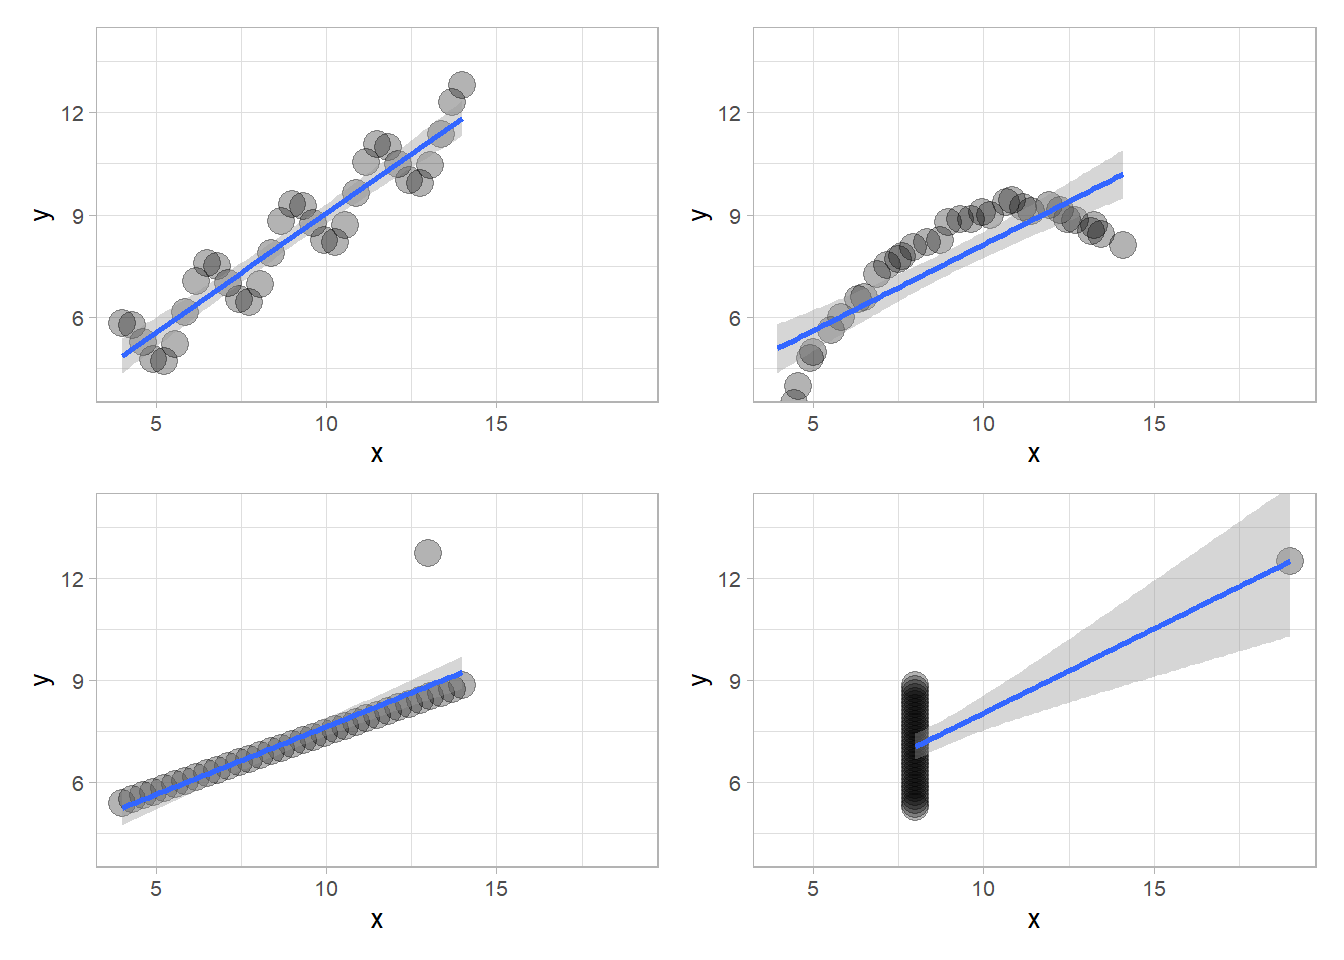
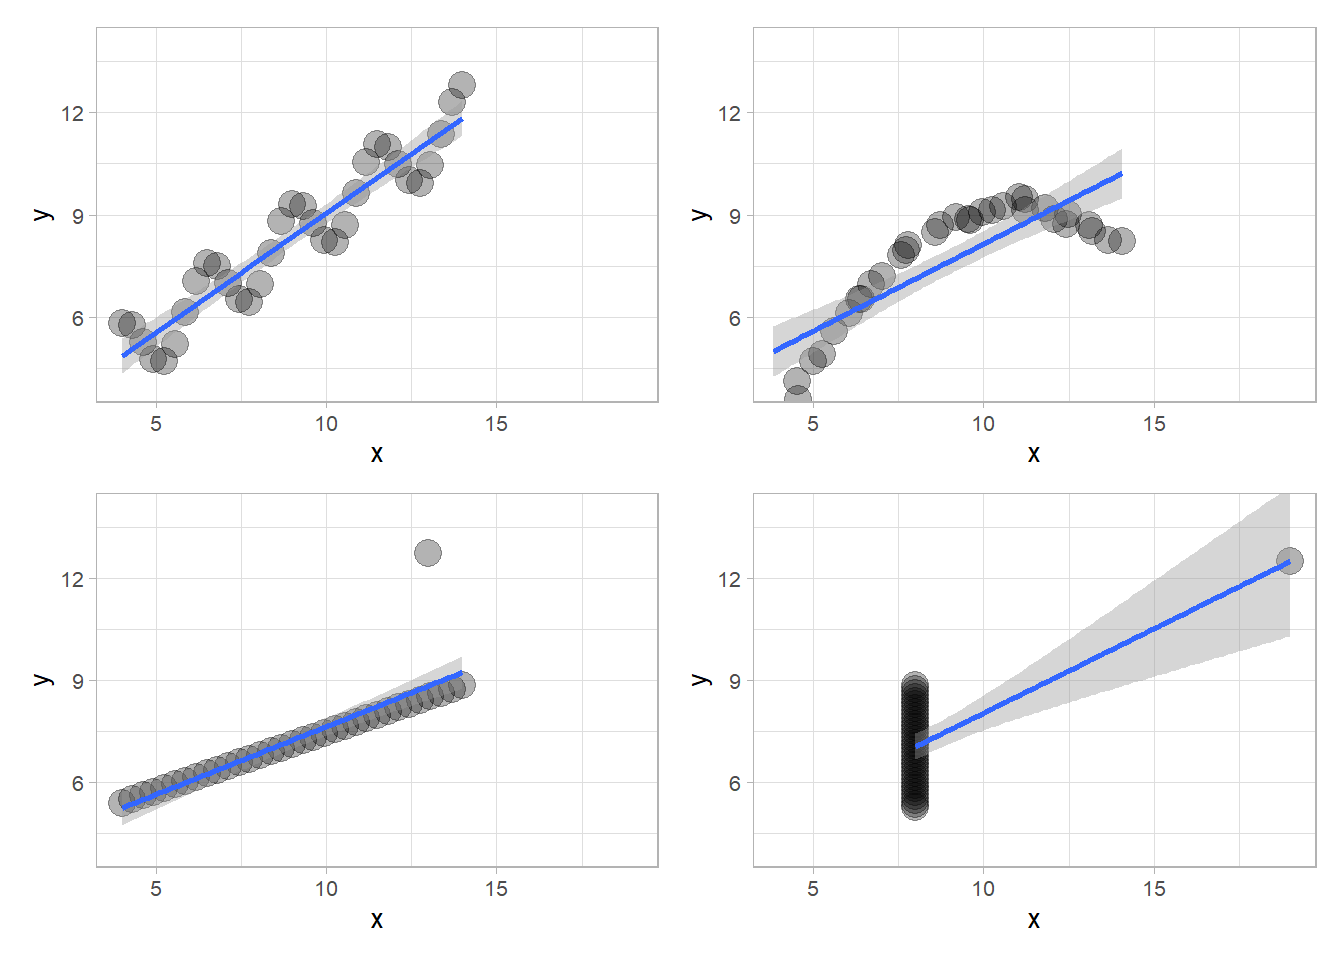
update

Changed region(s): [[0.5625, 0.1875, 0.8438, 0.4062]]

diff --git a/docs/posts/Art2/index.html b/docs/posts/Art2/index.html
@@ -625,8 +625,8 @@ Attaching package: 'kableExtra'</code></pre>
    <td style="text-align:left;"> 33 </td>
    <td style="text-align:left;"> 9 </td>
    <td style="text-align:left;"> 3 </td>
-   <td style="text-align:left;"> 3.9 </td>
-   <td style="text-align:left;"> 6.5 </td>
+   <td style="text-align:left;"> 3.8 </td>
+   <td style="text-align:left;"> 6.4 </td>
    <td style="text-align:left;"> 11 </td>
    <td style="text-align:left;"> 14 </td>
   </tr>
@@ -635,10 +635,10 @@ Attaching package: 'kableExtra'</code></pre>
    <td style="text-align:left;"> 33 </td>
    <td style="text-align:left;"> 7.6 </td>
    <td style="text-align:left;"> 1.8 </td>
-   <td style="text-align:left;"> 3.1 </td>
-   <td style="text-align:left;"> 6.6 </td>
+   <td style="text-align:left;"> 3 </td>
+   <td style="text-align:left;"> 6.5 </td>
    <td style="text-align:left;"> 8.9 </td>
-   <td style="text-align:left;"> 9.4 </td>
+   <td style="text-align:left;"> 9.5 </td>
   </tr>
 </tbody>
 </table>
@@ -858,7 +858,7 @@ Attaching package: 'kableExtra'</code></pre>
 </section>
 <section id="conclusion" class="level3">
 <h3 class="anchored" data-anchor-id="conclusion"><strong>Conclusion</strong></h3>
-<p>Anscombe’s Quartet is a powerful reminder that descriptive statistics alone may not reveal the complete story of your data. Visualization is a crucial tool in data analysis, helping you uncover patterns, outliers, and unexpected relationships that numbers alone might miss. Still to do second figure</p>
+<p>Anscombe’s Quartet is a powerful reminder that descriptive statistics alone may not reveal the complete story of your data. Visualization is a crucial tool in data analysis, helping you uncover patterns, outliers, and unexpected relationships that numbers alone might miss.</p>
 
 
 </section>

diff --git a/docs/listing.html b/docs/listing.html
@@ -188,7 +188,7 @@ ul.task-list li input[type="checkbox"] {
 
 <div class="quarto-listing quarto-listing-container-default" id="listing-listing">
 <div class="list quarto-listing-default">
-<div class="quarto-post image-right" data-index="0" data-categories="R,Fun" data-listing-date-sort="1694815200000" data-listing-file-modified-sort="1694875444019" data-listing-reading-time-sort="5.295">
+<div class="quarto-post image-right" data-index="0" data-categories="R,Fun" data-listing-date-sort="1694815200000" data-listing-file-modified-sort="1697390150357" data-listing-reading-time-sort="5.275">
 <div class="body">
 <a href="./posts/Art2/index.html">
 <h3 class="no-anchor listing-title">
@@ -238,7 +238,7 @@ Giorgio Luciano and ChatGPT
 </a>
 </div>
 </div>
-<div class="quarto-post image-right" data-index="2" data-categories="R,fun,Monty Hall problem" data-listing-date-sort="1697061600000" data-listing-file-modified-sort="1697124302466" data-listing-reading-time-sort="1.755">
+<div class="quarto-post image-right" data-index="2" data-categories="R,fun,Monty Hall problem" data-listing-date-sort="1697061600000" data-listing-file-modified-sort="1697389994557" data-listing-reading-time-sort="1.76">
 <div class="body">
 <a href="./posts/diceRolls/Dice rolls in shiny.html">
 <h3 class="no-anchor listing-title">

diff --git a/docs/posts/diceRolls/Dice rolls in shiny.html b/docs/posts/diceRolls/Dice rolls in shiny.html
@@ -297,13 +297,15 @@ code span.wa { color: #60a0b0; font-weight: bold; font-style: italic; } /* Warni
 <span id="cb2-38"><a href="#cb2-38" aria-hidden="true" tabindex="-1"></a><span class="fu">shinyApp</span>(ui, server)</span></code><button title="Copy to Clipboard" class="code-copy-button"><i class="bi"></i></button></pre></div>
 <div class="cell-output cell-output-stderr">
 <pre><code>
-Listening on http://127.0.0.1:7742</code></pre>
+Listening on http://127.0.0.1:7121</code></pre>
 </div>
 <div class="cell-output-display">
 <p><img src="Dice-rolls-in-shiny_files/figure-html/unnamed-chunk-2-1.png" class="img-fluid" width="672"></p>
 </div>
 </div>
-<p>#Conclusion</p>
+</section>
+<section id="conclusion" class="level1">
+<h1>Conclusion</h1>
 <p>With just a few lines of code, we’ve created an interactive dice roll simulator using Shiny. You can further customize the app, add more features, and change the appearance to suit your preferences. Shiny makes it easy to build web applications for data visualization and interactivity.</p>
 
 
